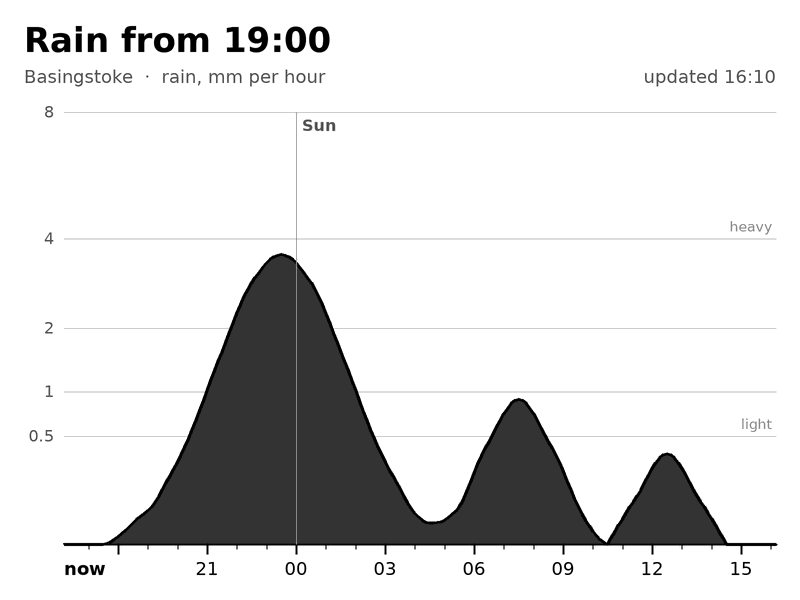
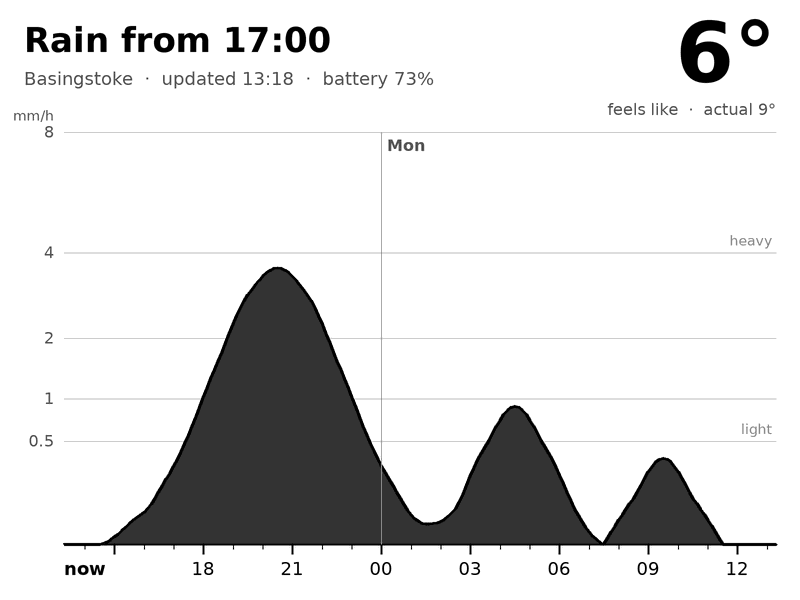
Plain-English rain headline and large feels-like temperature

diff --git a/server/render.py b/server/render.py
@@ -47,8 +47,11 @@ SS = 2                           # supersample factor for smooth edges
 # Y axis: square-root scale so drizzle is visible but a downpour fills the chart.
 Y_MAX = 8.0                      # mm/h - anything above is clipped to the top
 Y_TICKS = [(0.5, "0.5"), (1, "1"), (2, "2"), (4, "4"), (8, "8")]
-LIGHT, HEAVY = 0.5, 4.0          # Met Office light / heavy rain thresholds, mm/h
-WET = 0.1                        # mm/h considered "raining" for the headline
+LIGHT, HEAVY = 0.5, 4.0          # gridline labels on the chart, mm/h
+
+# Headline bands, mm/h. Below the first threshold the headline treats it as dry
+# (the chart still draws it). Tune these if the wording feels off.
+BANDS = [(0.2, "drizzle"), (0.5, "light rain"), (2.0, "rain"), (4.0, "heavy rain")]
 
 FONT_DIR = "/usr/share/fonts/truetype/dejavu"
 
@@ -58,10 +61,20 @@ def fetch(now, lat, lon):
     url = (
         "https://api.open-meteo.com/v1/forecast"
         f"?latitude={lat}&longitude={lon}&hourly=precipitation"
+        "&current=temperature_2m,apparent_temperature"
         f"&models={MODEL}&timezone={TZ.replace('/', '%2F')}&forecast_days=3"
     )
     with urllib.request.urlopen(url, timeout=20) as r:
-        data = json.load(r)["hourly"]
+        resp = json.load(r)
+    data, cur = resp["hourly"], resp.get("current", {})
+    temps = (cur.get("temperature_2m"), cur.get("apparent_temperature"))
+    if None in temps:
+        # the UKMO model may not provide these; fall back to Open-Meteo's default blend
+        url = (f"https://api.open-meteo.com/v1/forecast?latitude={lat}&longitude={lon}"
+               "&current=temperature_2m,apparent_temperature")
+        with urllib.request.urlopen(url, timeout=20) as r:
+            cur = json.load(r).get("current", {})
+        temps = (cur.get("temperature_2m"), cur.get("apparent_temperature"))
     tz = ZoneInfo(TZ)
     pts = []
     for t, mm in zip(data["time"], data["precipitation"]):
@@ -69,7 +82,7 @@ def fetch(now, lat, lon):
         # centre each value on the middle of the hour it describes.
         ts = datetime.fromisoformat(t).replace(tzinfo=tz) - timedelta(minutes=30)
         pts.append((ts, mm or 0.0))
-    return window(pts, now)
+    return window(pts, now) + ((temps if None not in temps else None),)
 
 
 def demo(now):
@@ -81,7 +94,7 @@ def demo(now):
         mm = 3.6 * math.exp(-((h - 7) / 2.2) ** 2) + 0.9 * math.exp(-((h - 15) / 1.2) ** 2)
         mm += 0.35 * math.exp(-((h - 20) / 0.9) ** 2)
         pts.append((start + timedelta(hours=i, minutes=30), round(mm, 2)))
-    return window(pts, now)
+    return window(pts, now) + ((9.4, 6.2),)
 
 
 def window(pts, now):
@@ -147,20 +160,51 @@ def monotone(xs, ys, steps=8):
 
 
 # ---- headline ---------------------------------------------------------------
+def band(mm):
+    """-1 for dry, else the index of the heaviest band reached."""
+    return max((i for i, (lo, _) in enumerate(BANDS) if mm >= lo), default=-1)
+
+
 def headline(pts, now, end):
-    hourly = [(t, mm) for t, mm in pts if now - timedelta(minutes=30) <= t <= end]
-    wet = [mm >= WET for _, mm in hourly]
-    if not any(wet):
+    # one value per hour; [0] is the current hour. Times are hour starts.
+    hours = [(t - timedelta(minutes=30), band(mm)) for t, mm in pts
+             if now - timedelta(minutes=30) <= t <= end]
+    hh = lambda t: t.strftime("%H:%M")
+    name = lambda b: BANDS[b][1].capitalize()
+
+    if all(b < 0 for _, b in hours):
         return "Dry for the next 24 hours"
-    peak = max(mm for _, mm in hourly)
-    kind = "Heavy rain" if peak >= HEAVY else "Rain" if peak >= LIGHT else "Light rain"
-    if wet[0]:
-        for (t, _), w in zip(hourly, wet):
-            if not w:
-                return f"Raining now, dry by {(t - timedelta(minutes=30)).strftime('%H:%M')}"
-        return "Raining for the next 24 hours"
-    first = next(t for (t, _), w in zip(hourly, wet) if w)
-    return f"{kind} from {(first - timedelta(minutes=30)).strftime('%H:%M')}"
+    if all(b >= 0 for _, b in hours):
+        peak_t, peak = max(hours, key=lambda h: h[1])
+        return "Drizzly all day" if peak == 0 else f"Wet all day, heaviest at {hh(peak_t)}"
+
+    if hours[0][1] >= 0:                       # raining now
+        spell = []
+        for t, b in hours:
+            if b < 0:
+                break
+            spell.append((t, b))
+        now_b = hours[0][1]
+        peak = max(b for _, b in spell)
+        if peak >= 2 and peak > now_b:         # this spell gets properly heavier
+            when = next(t for t, b in spell if b > now_b)
+            lead = "Spitting now" if now_b == 0 else f"{name(now_b)} now"
+            return f"{lead}, heavier from {hh(when)}"
+        dry = hours[len(spell)][0]
+        lead = "Just spitting" if now_b == 0 else f"{name(now_b)} now"
+        return f"{lead}, dry by {hh(dry)}"
+
+    # dry now: describe the next spell by its peak
+    i = next(i for i, (_, b) in enumerate(hours) if b >= 0)
+    first = hours[i][0]
+    peak = 0
+    for _, b in hours[i:]:
+        if b < 0:
+            break
+        peak = max(peak, b)
+    if peak == 0:
+        return f"Chance of drizzle from {hh(first)}"
+    return f"{name(peak)} from {hh(first)}"
 
 
 # ---- drawing ----------------------------------------------------------------
@@ -172,31 +216,48 @@ def font(size, bold=False):
         return ImageFont.load_default(size * SS)
 
 
-def render(pts, now, end, out, place, bat=None):
+def render(pts, now, end, out, place, bat=None, temps=None):
     img = Image.new("L", (W * SS, H * SS), 255)
     g = ImageDraw.Draw(img)
     S = lambda v: int(round(v * SS))
 
     # plot area
-    L, R, T, B = 64, W - 24, 112, H - 56
+    L, R, T, B = 64, W - 24, 132, H - 56
     span = (end - now).total_seconds()
     xpx = lambda t: L + (R - L) * (t - now).total_seconds() / span
     ypx = lambda mm: B - (B - T) * math.sqrt(min(max(mm, 0), Y_MAX) / Y_MAX)
 
-    # header
-    g.text((S(L - 40), S(20)), headline(pts, now, end), font=font(34, True), fill=0)
-    status = f"updated {now:%H:%M}"
+    # header, right: big "feels like" temperature with the actual temp beneath
+    left = L - 40
+    head_right = R
+    if temps:
+        deg = lambda v: f"{round(v):d}°".replace("-", "\u2212") if round(v) != 0 else "0°"
+        g.text((S(R), S(4)), deg(temps[1]), font=font(84, True), fill=0, anchor="ra")
+        sub = f"feels like  ·  actual {deg(temps[0])}"
+        g.text((S(R), S(100)), sub, font=font(16), fill=85, anchor="ra")
+        big = g.textbbox((S(R), S(4)), deg(temps[1]), font=font(84, True), anchor="ra")
+        sub_w = g.textlength(sub, font=font(16)) / SS
+        head_right = R - max((big[2] - big[0]) / SS, sub_w) - 28
+
+    # header, left: headline (shrinks to fit beside the temperature) + status line
+    text = headline(pts, now, end)
+    size = 34
+    while size > 22 and g.textlength(text, font=font(size, True)) / SS > head_right - left:
+        size -= 1
+    g.text((S(left), S(20 + (34 - size) * 0.6)), text, font=font(size, True), fill=0)
+
+    status = f"{place}  ·  updated {now:%H:%M}"
     if bat:
         status += f"  ·  battery {bat[0]}%" + (" (charging)" if bat[1] else "")
-    g.text((S(R), S(66)), status, font=font(18), fill=85, anchor="ra")
     if bat and bat[0] < LOW_BATTERY and not bat[1]:
-        # low battery: swap the subtitle for a black banner that's hard to miss
+        # low battery: swap the status line for a black banner that's hard to miss
         msg = f"Low battery {bat[0]}% - please plug me in"
-        box = g.textbbox((S(L - 40), S(66)), msg, font=font(18, True))
+        box = g.textbbox((S(left), S(68)), msg, font=font(18, True))
         g.rectangle((box[0] - S(8), box[1] - S(5), box[2] + S(8), box[3] + S(5)), fill=0)
-        g.text((S(L - 40), S(66)), msg, font=font(18, True), fill=255)
+        g.text((S(left), S(68)), msg, font=font(18, True), fill=255)
     else:
-        g.text((S(L - 40), S(66)), f"{place}  ·  rain, mm per hour", font=font(18), fill=85)
+        g.text((S(left), S(68)), status, font=font(18), fill=85)
+    g.text((S(L - 10), S(T - 10)), "mm/h", font=font(14), fill=85, anchor="rb")
 
     # gridlines + y labels
     for mm, label in Y_TICKS:
@@ -251,11 +312,12 @@ def main():
     for slug, (place, lat, lon) in LOCATIONS.items():
         now = datetime.now(ZoneInfo(TZ))
         try:
-            pts, now, end = demo(now) if a.demo else fetch(now, lat, lon)
-            render(pts, now, end, os.path.join(a.outdir, f"rain-{slug}.png"), place)
+            pts, now, end, temps = demo(now) if a.demo else fetch(now, lat, lon)
+            render(pts, now, end, os.path.join(a.outdir, f"rain-{slug}.png"), place,
+                   temps=temps)
             if slug == KINDLE:
                 render(pts, now, end, os.path.join(a.outdir, "kindle.png"), place,
-                       battery(now, a.heartbeat))
+                       battery(now, a.heartbeat), temps)
         except Exception as e:  # one bad location shouldn't block the other
             print(f"{slug}: {e}", file=sys.stderr)
             failed = True

diff --git a/README.md b/README.md
@@ -4,7 +4,7 @@ A 24-hour rain forecast chart for a jailbroken Kindle Touch, for leaving on a wi
 
 ![preview](preview.png)
 
-A server renders the chart as a PNG every 10 minutes. The Kindle downloads it over plain HTTP and draws it on the screen.
+A server renders the chart as a PNG every 10 minutes, with a plain-English headline ("Just spitting, dry by 15:00") and a large "feels like" temperature. The Kindle downloads it over plain HTTP and draws it on the screen.
 Rendering on the server keeps the Kindle side to a few lines of shell, and gets round the Kindle's outdated TLS
 (it can't fetch modern HTTPS).
 
